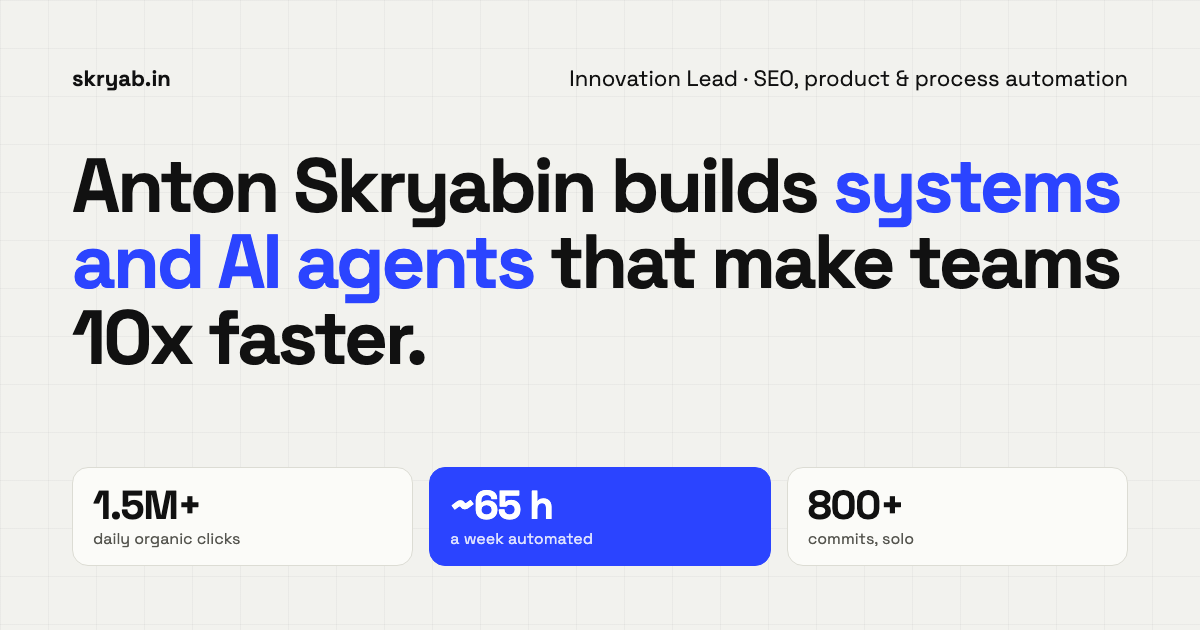
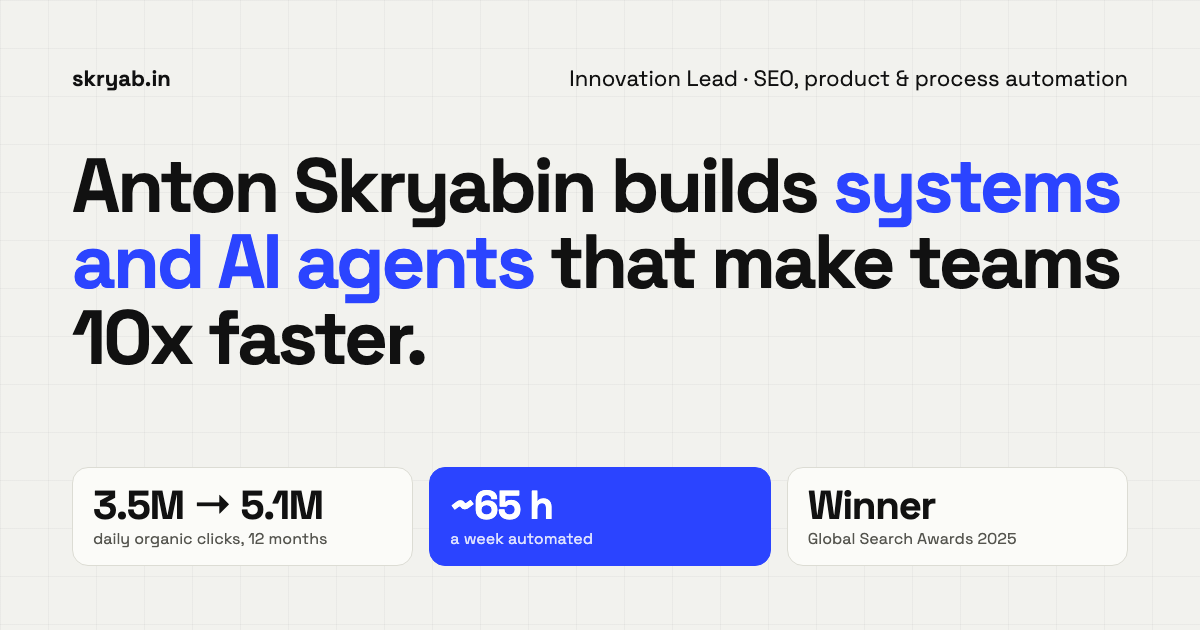
Interview update: growth, GEO, business impact, award

Changed region(s): [[0.0617, 0.754, 0.2775, 0.8746], [0.6783, 0.754, 0.8633, 0.8746]]

diff --git a/index.html b/index.html
@@ -4,7 +4,7 @@
 <meta charset="utf-8">
 <meta name="viewport" content="width=device-width, initial-scale=1">
 <title>Anton Skryabin — Innovation Lead | SEO, Product &amp; Process Automation</title>
-<meta name="description" content="Anton Skryabin builds systems and AI agents that make teams faster. Innovation Lead: SEO at 1.5M+ daily clicks, an in-house SEO platform, LLM workflows.">
+<meta name="description" content="Anton Skryabin grew organic search from 3.5M to 5.1M daily clicks and builds systems and AI agents for SEO teams. Global Search Awards 2025 winner.">
 <link rel="canonical" href="https://skryab.in/">
 <meta name="robots" content="index, follow, max-image-preview:large">
 <meta name="author" content="Anton Skryabin">
@@ -22,7 +22,7 @@
 <meta property="og:site_name" content="skryab.in">
 <meta property="og:url" content="https://skryab.in/">
 <meta property="og:title" content="Anton Skryabin — Innovation Lead">
-<meta property="og:description" content="I did the SEO at 1.5M+ daily clicks. Then I built the systems and AI agents that do it.">
+<meta property="og:description" content="Grew organic search 3.5M → 5.1M daily clicks. Builds systems and AI agents that make teams 10x faster.">
 <meta property="og:image" content="https://skryab.in/og.png">
 <meta property="og:image:width" content="1200">
 <meta property="og:image:height" content="630">
@@ -31,7 +31,7 @@
 <meta property="profile:last_name" content="Skryabin">
 <meta name="twitter:card" content="summary_large_image">
 <meta name="twitter:title" content="Anton Skryabin — Innovation Lead">
-<meta name="twitter:description" content="I did the SEO at 1.5M+ daily clicks. Then I built the systems and AI agents that do it.">
+<meta name="twitter:description" content="Grew organic search 3.5M → 5.1M daily clicks. Builds systems and AI agents that make teams 10x faster.">
 <meta name="twitter:image" content="https://skryab.in/og.png">
 
 <script type="application/ld+json">
@@ -56,10 +56,11 @@
       "url": "https://skryab.in/",
       "image": "https://skryab.in/og.png",
       "jobTitle": "SEO Innovation Lead",
-      "description": "Innovation Lead working across SEO, product and process automation: an in-house SEO platform, AI agents and LLM workflows for growth teams.",
+      "description": "Innovation Lead working across SEO, product and process automation. Grew a flagship's organic search from 3.5M to 5.1M daily clicks; builds an in-house SEO platform, AI agents and LLM workflows.",
       "worksFor": { "@type": "Organization", "name": "Mayflower" },
       "address": { "@type": "PostalAddress", "addressLocality": "Limassol", "addressCountry": "CY" },
       "knowsLanguage": ["en", "ru"],
+      "award": "Global Search Awards 2025 — Best Use of AI for Data (winner)",
       "alumniOf": [
         { "@type": "CollegeOrUniversity", "name": "ITMO University" },
         { "@type": "CollegeOrUniversity", "name": "North-Eastern Federal University" }
@@ -94,6 +95,7 @@
     --blue:#7d8bff; --hl:#8e9bff;
     --band:#1f33d6; --band-muted:#d3d8ff;
   }
+  :root:not([data-theme="light"]) .award b{color:#0d0e12}
 }
 :root[data-theme="dark"]{
   --bg:#0d0e12; --card:#15161c; --line:#26272f; --grid:#ffffff08;
@@ -217,6 +219,29 @@ footer .wrap{display:flex;justify-content:space-between;gap:16px;flex-wrap:wrap;
   .metric b{font-size:44px}
 }
 
+
+/* award, growth, levers */
+.award{display:inline-flex;gap:8px;align-items:center;margin:20px 0 0;font-size:15px;color:var(--muted)}
+.award b{background:var(--blue);color:#fff;border-radius:999px;padding:2px 10px;font-weight:500}
+:root[data-theme="dark"] .award b{color:#0d0e12}
+.growth{display:grid;grid-template-columns:1.2fr 1fr;gap:20px;margin-bottom:20px}
+.growth>div{border:1px solid var(--line);background:var(--card);border-radius:20px;padding:30px}
+.growth .label{color:var(--faint);margin:0}
+.growth-num{display:flex;align-items:baseline;gap:18px;margin:14px 0 8px;font-variant-numeric:tabular-nums;flex-wrap:wrap}
+.growth-num span{font-size:clamp(40px,5vw,64px);letter-spacing:-.04em;color:var(--faint);font-weight:500}
+.growth-num i{font-style:normal;font-size:40px;color:var(--blue)}
+.growth-num b{font-size:clamp(56px,8vw,104px);letter-spacing:-.05em;line-height:1}
+.growth-sub{margin:0;color:var(--muted)}
+.growth-biz ul{list-style:none;margin:14px 0 0;padding:0;display:grid;gap:14px}
+.growth-biz li{display:grid;grid-template-columns:132px 1fr;gap:12px;align-items:baseline}
+.growth-biz b{white-space:nowrap;font-size:30px;letter-spacing:-.03em;color:var(--blue)}
+.growth-biz span{color:var(--muted);font-size:15px;line-height:1.45}
+.levers{list-style:none;margin:0;padding:0;display:grid;grid-template-columns:repeat(3,1fr);gap:20px}
+.levers li{border:1px solid var(--line);background:var(--card);border-radius:16px;padding:22px}
+.levers h3{font-size:18px;margin:0 0 6px;letter-spacing:-.01em}
+.levers p{margin:0;color:var(--muted);font-size:15px;line-height:1.5}
+@media (max-width:900px){.growth,.levers{grid-template-columns:1fr}}
+
 /* ---------- print: a clean CV ---------- */
 @media print{
   @page{margin:12mm 14mm}
@@ -238,7 +263,9 @@ footer .wrap{display:flex;justify-content:space-between;gap:16px;flex-wrap:wrap;
   .metric b{font-size:16pt}
   .case h3{font-size:11pt;margin:4pt 0}
   .case dl{grid-template-columns:62pt 1fr;font-size:9pt;gap:2pt 8pt}
-  .tags,.mini{display:none}
+  .tags,.mini,.award{display:none}
+  .growth{grid-template-columns:1fr 1fr;gap:8pt}.growth>div{padding:8pt}.growth-num b{font-size:20pt}.growth-num span{font-size:14pt}
+  .levers{grid-template-columns:1fr 1fr;gap:6pt}.levers li{padding:6pt;break-inside:avoid}.levers p{font-size:9pt}
   .xp{grid-template-columns:150pt 1fr;gap:4pt 16pt}
   .xp .body,.xp .side{padding:6pt 0}
   .skills,.edu{gap:8pt}
@@ -273,12 +300,13 @@ footer .wrap{display:flex;justify-content:space-between;gap:16px;flex-wrap:wrap;
       <p class="pill"><i aria-hidden="true"></i>Innovation Lead — SEO, product &amp; process automation · Limassol</p>
       <h1 id="hero-h">Anton Skryabin builds <span>systems and AI agents</span> that make teams 10x faster.</h1>
       <p class="print-only" style="margin:4pt 0 0">anton@skryab.in · t.me/lastquasar · linkedin.com/in/anton-skryabin-048b9a280 · Limassol, Cyprus</p>
-      <p class="lede">Six years of hands-on SEO, up to 1.5M+ organic clicks a day. Now I turn that know-how into an in-house platform, AI agents and process changes that do the repeat work for the team.</p>
+      <p class="lede">I grew a flagship product’s organic search from 3.5M to 5.1M clicks a day in one year. Now I turn that SEO know-how into a platform, AI agents and process changes that do the repeat work for the team.</p>
+      <p class="award"><b>Winner</b> · Global Search Awards 2025 — Best Use of AI for Data</p>
       <ul class="stats" aria-label="Key numbers">
-        <li><small>SEO</small><b>1.5M+</b><span>daily organic clicks across the portfolio</span></li>
+        <li><small>SEO growth</small><b>+46%</b><span>3.5M → 5.1M daily organic clicks on the flagship, last 12 months</span></li>
+        <li><small>GEO</small><b>12 → 27%</b><span>visibility in AI answers for target queries, in six months</span></li>
         <li><small>Automation</small><b>~65 h</b><span>of manual work a week automated (estimate)</span></li>
         <li><small>Platform</small><b>800+</b><span>commits in 4 months — built solo</span></li>
-        <li><small>Scale</small><b>34+</b><span>domains in 30+ languages</span></li>
       </ul>
     </div>
   </section>
@@ -293,13 +321,24 @@ footer .wrap{display:flex;justify-content:space-between;gap:16px;flex-wrap:wrap;
       <div class="cases">
         <article class="case wide">
           <div class="metric"><b>~65 h</b><span>of manual work automated every week — estimate across 35 automations</span></div>
-          <h3>SEO OS — the team’s in-house SEO platform</h3>
+          <h3>SEO OS — the in-house SEO platform</h3>
           <dl>
-            <dt>Problem</dt><dd>SEO data lived in 25+ tools. Audits, reports and checks were done by hand.</dd>
+            <dt>Problem</dt><dd>SEO data lived in 25+ tools. Audits, reports and checks were done by hand, and some problems were simply too big to see by eye.</dd>
             <dt>What I did</dt><dd>Designed and built a Django platform alone: 67 active modules, 50 scheduled jobs, 25+ integrations (Search Console, BigQuery, GA4, CrUX, Bing, Ahrefs, Serpstat, Jira, Slack, LLMs), ~1,800 automated tests. 800+ commits in four months.</dd>
-            <dt>Result</dt><dd>A daily technical audit of 11 page types on every locale host (~1,100 headless renders a day). Change tracking of 82,860 pages per run with alerts. A 156 GB local mirror of Search Console data, so any traffic question is answered without API limits.</dd>
+            <dt>Result</dt><dd>Used daily by the SEO team and the Chief Growth Officer. A technical audit of 11 page types on every locale host runs every day (~1,100 headless renders) and caught issues a person would not. Example: a US edge migration that served empty pages to ~12% of Googlebot fetches and broke every sitemap on the main market. It was found by the platform, not by a person, and fixed: empty pages went from 12.4% to 0.5%. A 156 GB local mirror of Search Console answers any traffic question without API limits.</dd>
           </dl>
           <ul class="tags"><li>Python</li><li>Django</li><li>htmx</li><li>DuckDB</li><li>BigQuery</li><li>Playwright</li><li>LLM APIs</li></ul>
+        </article>
+
+        <article class="case">
+          <div class="metric"><b>12 → 27%</b><span>visibility in AI answers for target queries, in six months</span></div>
+          <h3>GEO decision system</h3>
+          <dl>
+            <dt>Problem</dt><dd>AI answer engines became a new search surface, but there was no clear way to decide which content to change.</dd>
+            <dt>What I did</dt><dd>Built a decision system that tracks visibility on target queries and turns it into concrete content recommendations, then ran it with a GEO specialist.</dd>
+            <dt>Result</dt><dd>Visibility on target queries more than doubled in six months.</dd>
+          </dl>
+          <ul class="tags"><li>GEO</li><li>LLMs</li><li>Content</li></ul>
         </article>
 
         <article class="case">
@@ -310,7 +349,7 @@ footer .wrap{display:flex;justify-content:space-between;gap:16px;flex-wrap:wrap;
             <dt>What I did</dt><dd>Built an agent with a structured knowledge base of the team’s domains, events and owners. It reads the data, scores opportunities and drafts tasks.</dd>
             <dt>Result</dt><dd>100 scored findings in its first three weeks, a weekly report, a Slack bot and a voice chat.</dd>
           </dl>
-          <ul class="tags"><li>Claude Code</li><li>Agents</li><li>GSC</li><li>GA4</li><li>Ahrefs</li></ul>
+          <ul class="tags"><li>Claude Code</li><li>Agents</li><li>GSC</li><li>GA4</li></ul>
         </article>
 
         <article class="case">
@@ -318,21 +357,10 @@ footer .wrap{display:flex;justify-content:space-between;gap:16px;flex-wrap:wrap;
           <h3>RAG knowledge agent + MCP servers</h3>
           <dl>
             <dt>Problem</dt><dd>“How do we do X here?” had its answer somewhere in Jira, Slack, Confluence or Drive — but nobody could find it fast.</dd>
-            <dt>What I did</dt><dd>Indexed the documents with embeddings and exposed them, plus plain-English questions over Search Console data, as two MCP servers.</dd>
-            <dt>Result</dt><dd>Teammates’ AI assistants answer with sources, and agents query search data without SQL.</dd>
+            <dt>What I did</dt><dd>Indexed the documents with embeddings and exposed them, plus plain-English questions over Search Console data, as two MCP servers. Moved LLM workloads to self-hosted open models.</dd>
+            <dt>Result</dt><dd>Teammates’ AI assistants answer with sources, agents query search data without SQL, and data stays in-house.</dd>
           </dl>
-          <ul class="tags"><li>RAG</li><li>MCP</li><li>Embeddings</li></ul>
-        </article>
-
-        <article class="case">
-          <div class="metric"><b>24</b><span>locales covered by the AI meta-tag generator</span></div>
-          <h3>LLMs in production, at low cost</h3>
-          <dl>
-            <dt>Problem</dt><dd>Writing H1, title and description for thousands of pages in every locale did not scale, and paid APIs were expensive.</dd>
-            <dt>What I did</dt><dd>Built an AI meta generator and one LLM classifier reused in 5 workflows. Tested a vendor alternative on 413 cases and rejected it. Moved workloads to self-hosted open models.</dd>
-            <dt>Result</dt><dd>Meta tags for every locale on demand. Lower cost, and data stays in-house.</dd>
-          </dl>
-          <ul class="tags"><li>Ollama</li><li>Gemma</li><li>OpenAI</li><li>Evaluation</li></ul>
+          <ul class="tags"><li>RAG</li><li>MCP</li><li>Ollama</li></ul>
         </article>
 
         <article class="case">
@@ -341,7 +369,7 @@ footer .wrap{display:flex;justify-content:space-between;gap:16px;flex-wrap:wrap;
           <dl>
             <dt>Problem</dt><dd>Product changes reached production without an SEO review, and SEO ideas had no clear way into the roadmap.</dd>
             <dt>What I did</dt><dd>Wrote SEO involvement guidelines for product work and added an “SEO related” field in Jira that adds the SEO team automatically. Started SEO review in grooming and an innovation intake with RICE scoring.</dd>
-            <dt>Result</dt><dd>SEO is in the loop by default, and automation ideas are ranked by impact, not by who asks loudest.</dd>
+            <dt>Result</dt><dd>SEO is in the loop by default, and automation ideas are ranked by impact.</dd>
           </dl>
           <ul class="tags"><li>Jira</li><li>Confluence</li><li>RICE</li></ul>
         </article>
@@ -352,68 +380,36 @@ footer .wrap{display:flex;justify-content:space-between;gap:16px;flex-wrap:wrap;
   <section id="seo" aria-labelledby="seo-h">
     <div class="wrap sec">
       <div class="sec-head">
-        <div><p class="label">02 — SEO</p><h2 id="seo-h">SEO at scale.</h2></div>
-        <p>Technical, international and generative-search SEO for a portfolio of high-traffic consumer products in 30+ languages — the foundation the tools are built on.</p>
+        <div><p class="label">02 — SEO</p><h2 id="seo-h">Steady growth from many levers.</h2></div>
+        <p>No single trick: growth on a site this size comes from dozens of small, correct decisions in technical, international and content SEO — made every week.</p>
       </div>
 
-      <div class="cases">
-        <article class="case wide">
-          <div class="metric"><b>84%</b><span>of ~8M verified Googlebot hits went to API endpoints, not pages</span></div>
-          <h3>Googlebot crawl waste, found in server logs</h3>
-          <dl>
-            <dt>Problem</dt><dd>Nobody knew where Googlebot actually spent its crawl budget.</dd>
-            <dt>What I did</dt><dd>Analysed ~8M Googlebot requests from server logs, verified real bots by IP and grouped URLs by shape. Found that most of the crawl went to API endpoints and that ~30K hits came from fake Googlebots.</dd>
-            <dt>Result</dt><dd>An “always server-side render for Googlebot” fix, and a permanent crawl monitor (~1M verified fetches a day) inside SEO OS.</dd>
-          </dl>
-          <ul class="tags"><li>Log analysis</li><li>Crawl budget</li><li>Rendering</li><li>Elasticsearch</li></ul>
-        </article>
-
-        <article class="case">
-          <div class="metric"><b>2×</b><span>clicks for a locale after moving it to its own subdomain</span></div>
-          <h3>International: locales on subdomains</h3>
-          <dl>
-            <dt>What I did</dt><dd>Wrote the canonical and hreflang requirements for moving two locales to new subdomains, then tracked the result.</dd>
-            <dt>Result</dt><dd>One locale doubled its organic clicks. New Bulgarian and Hebrew locales went live in 2026.</dd>
-          </dl>
-          <ul class="tags"><li>hreflang</li><li>Canonicals</li><li>International SEO</li></ul>
-        </article>
-
-        <article class="case">
-          <div class="metric"><b>+700</b><span>clicks a day from one indexation fix</span></div>
-          <h3>Search pages: indexation and canonicals</h3>
-          <dl>
-            <dt>What I did</dt><dd>Got ~300 more search pages indexed and wrote a new title template for search pages. Later wrote the URL-normalisation and canonical rules for search.</dd>
-            <dt>Result</dt><dd>About +700 organic clicks a day from the newly indexed pages.</dd>
-          </dl>
-          <ul class="tags"><li>Indexation</li><li>Templates</li></ul>
-        </article>
-
-        <article class="case">
-          <div class="metric"><b>2 days</b><span>until traffic moved to the new domain</span></div>
-          <h3>Domain migration without a drop</h3>
-          <dl>
-            <dt>What I did</dt><dd>Specified and ran the move of a satellite domain: one-hop page-level 301s, a nameserver switch to Cloudflare and a Change of Address in Search Console.</dd>
-            <dt>Result</dt><dd>Search traffic showed up on the new domain two days after go-live.</dd>
-          </dl>
-          <ul class="tags"><li>Migration</li><li>301</li><li>DNS</li></ul>
-        </article>
-
-        <article class="case">
-          <div class="metric"><b>1–3K</b><span>look-alike domains checked every day</span></div>
-          <h3>Brand protection and DMCA</h3>
-          <dl>
-            <dt>What I did</dt><dd>Owned a page-drop checker bot, triaged DMCA and “shadow DMCA” drops and moved pages back through the de-DMCA flow. Found brand-abuse domains and got them transferred to the company.</dd>
-            <dt>Result</dt><dd>Page drops are handled in one clear process, and copycat domains are caught early.</dd>
-          </dl>
-          <ul class="tags"><li>DMCA</li><li>Brand</li><li>Domains</li></ul>
-        </article>
+      <div class="growth">
+        <div class="growth-main">
+          <p class="label">Flagship, daily organic clicks, last 12 months</p>
+          <p class="growth-num"><span>3.5M</span><i aria-hidden="true">→</i><b>5.1M</b></p>
+          <p class="growth-sub">+46% year over year · Top-600 global Semrush rank · 34+ domains in 30+ languages</p>
+        </div>
+        <div class="growth-biz">
+          <p class="label">What it means for the business</p>
+          <ul>
+            <li><b>#1</b><span>channel for sign-ups (was #2 a year ago), first purchases and revenue — organic &amp; direct</span></li>
+            <li><b>+61%</b><span>first purchases from the channel, year over year</span></li>
+            <li><b>+4.8 pts</b><span>share of all sign-ups, year over year</span></li>
+          </ul>
+        </div>
       </div>
 
-      <ul class="mini" aria-label="More SEO numbers">
-        <li><b>30M+</b><span>monthly organic visits on the flagship</span></li>
-        <li><b>Top-600</b><span>global Semrush rank of the flagship</span></li>
-        <li><b>0 → 10K</b><span>daily clicks for satellite projects</span></li>
-        <li><b>CWV</b><span>single owner of Core Web Vitals regressions via CrUX</span></li>
+      <ul class="levers">
+        <li><h3>Crawl &amp; rendering</h3><p>Analysed ~8M Googlebot hits from server logs: 84% went to API endpoints, not pages. Led to server-side rendering for Googlebot and a permanent crawl monitor.</p></li>
+        <li><h3>Indexation</h3><p>Got ~300 more search pages indexed (+700 clicks a day), then wrote the URL-normalisation and canonical rules for search.</p></li>
+        <li><h3>International</h3><p>Canonical and hreflang requirements for moving locales to subdomains — one locale doubled its clicks. New Bulgarian and Hebrew locales in 2026.</p></li>
+        <li><h3>Templates &amp; meta</h3><p>Own title, H1 and meta templates across locales, plus an AI meta generator for 24 locales.</p></li>
+        <li><h3>Core Web Vitals</h3><p>Single owner of CWV regressions: CrUX checks, triage and hand-off to developers.</p></li>
+        <li><h3>Migrations &amp; domains</h3><p>Page-level one-hop 301s, a Cloudflare switch and Change of Address — traffic moved to the new domain in two days. White-label domains and their DNS.</p></li>
+        <li><h3>Brand protection</h3><p>A page-drop checker, DMCA and “shadow DMCA” triage, and 1–3K look-alike domains monitored daily.</p></li>
+        <li><h3>Measured releases</h3><p>Every SEO release is measured at 4 and 12 weeks. Best results: custom search pages +726% clicks, mixed-tag pages +164%, Indian-language categories +111%.</p></li>
+        <li><h3>Product SEO</h3><p>SEO requirements in product tasks and validation before and after every release, with engineering, design, content, analytics and legal.</p></li>
       </ul>
     </div>
   </section>
@@ -422,51 +418,54 @@ footer .wrap{display:flex;justify-content:space-between;gap:16px;flex-wrap:wrap;
     <div class="wrap sec">
       <div class="sec-head">
         <div><p class="label">03 — Experience</p><h2 id="xp-h">Experience.</h2></div>
-        <p>From specialist to team lead to innovation lead — mostly at one company, with growing scope.</p>
+        <p>Six years in SEO: from specialist to team lead to innovation lead, in fintech and high-traffic consumer products.</p>
       </div>
 
       <div class="xp">
         <div class="side"><h3>SEO Innovation Lead</h3><p class="when">Mayflower · Sep 2026 – now</p></div>
         <div class="body"><ul>
           <li>Own the SEO automation roadmap: internal tools, data pipelines and AI systems for SEO and Growth.</li>
-          <li>Lead the SEO Innovations team, including Generative Engine Optimization (visibility in AI answer engines).</li>
+          <li>Two SEO specialists and a GEO specialist report to me.</li>
           <li>Run the innovation intake with RICE scoring and drive adoption of automation in day-to-day work.</li>
         </ul></div>
 
-        <div class="side"><h3>SEO Team Lead</h3><p class="when">Mayflower · Jul 2025 – Sep 2026</p></div>
+        <div class="side"><h3>SEO Team Lead / SEO Product Manager</h3><p class="when">Mayflower · Jul 2025 – Sep 2026</p></div>
         <div class="body"><ul>
-          <li>Owned SEO strategy for several high-traffic international products across Tier 0–3 markets; monthly SEO review with CEO, CPO and CGO.</li>
-          <li>Managed and mentored the on-page SEO team: prioritization, QA, performance tracking.</li>
-          <li>Acted as SEO Product Owner with engineering, design, content, analytics and legal.</li>
-          <li>Built SEO OS (see Innovation).</li>
+          <li>Owned SEO strategy for several high-traffic international products across Tier 0–3 markets, reporting to C-level.</li>
+          <li>Led Generative Engine Optimization: visibility and citations in AI answer engines.</li>
+          <li>Acted as SEO Product Owner; built SEO OS (see Innovation).</li>
         </ul></div>
 
-        <div class="side"><h3>SEO Specialist → Senior</h3><p class="when">Mayflower · Jul 2023 – Jun 2025</p></div>
+        <div class="side"><h3>On-page SEO Specialist → Senior</h3><p class="when">Mayflower · Jun 2023 – Jul 2025</p></div>
         <div class="body"><ul>
-          <li>Owned title, H1 and meta templates and the SEO requirements in product tasks.</li>
-          <li>Set up white-label domains and their DNS; ran DMCA triage and brand protection.</li>
-          <li>Technical audits, Python automations and Looker Studio reporting.</li>
+          <li>Ran several SEO-driven products at once, from idea to launch and scaling, across Tier 1–3 markets.</li>
+          <li>Owned title, H1 and meta templates; DMCA triage and brand protection; white-label domains.</li>
+          <li>Introduced Python automations and Looker Studio reporting.</li>
         </ul></div>
 
-        <div class="side"><h3>SEO Specialist</h3><p class="when">IQ Option Global · Jan 2021 – Jun 2023</p></div>
-        <div class="body"><p>Technical and on-page SEO for an international fintech product.</p></div>
+        <div class="side"><h3>SEO Specialist</h3><p class="when">IQ Option · Feb 2021 – Jun 2023</p></div>
+        <div class="body"><ul>
+          <li>SEO strategy for international financial products in 30+ countries.</li>
+          <li>Top-1 to top-10 Google rankings in highly competitive financial niches.</li>
+          <li>Multilingual SEO: English, Spanish, Portuguese, French and more.</li>
+        </ul></div>
       </div>
 
       <div class="skills">
         <div><h3>SEO</h3><p>Technical SEO, crawl budget, log analysis, rendering, Core Web Vitals, international SEO, migrations, GEO.</p></div>
         <div><h3>Engineering &amp; AI</h3><p>Python, Django, SQL, BigQuery, DuckDB, LLM APIs, agents, RAG, MCP, self-hosted models.</p></div>
-        <div><h3>Leadership</h3><p>Team lead and mentor, SEO product owner, process design, work with C-level.</p></div>
+        <div><h3>Languages</h3><p>English — C1 (advanced). Russian — native.</p></div>
       </div>
     </div>
   </section>
 
   <section id="education" aria-labelledby="edu-h" style="border-top:1px solid var(--line)">
     <div class="wrap sec" style="padding-top:72px;padding-bottom:72px">
-      <p class="label" id="edu-h" style="color:var(--faint)">Education &amp; certifications</p>
+      <p class="label" id="edu-h" style="color:var(--faint)">Awards &amp; education</p>
       <ul class="edu" style="margin-top:20px">
+        <li><b>Global Search Awards 2025</b><span>Winner — Best Use of AI for Data</span></li>
         <li><b>ITMO University</b><span>MTech, Neurotechnologies and software engineering · 2019–2021</span></li>
         <li><b>North-Eastern Federal University</b><span>BTech, Informatics and computer engineering · 2015–2019</span></li>
-        <li><b>LinkedIn Learning</b><span>Leadership Transitions · Influence Skills for Leaders · Strategic Thinking</span></li>
       </ul>
     </div>
   </section>
@@ -487,7 +486,7 @@ footer .wrap{display:flex;justify-content:space-between;gap:16px;flex-wrap:wrap;
 
 <footer>
   <div class="wrap">
-    <span>© 2026 Anton Skryabin · skryab.in · Languages: English, Russian</span>
+    <span>© 2026 Anton Skryabin · skryab.in</span>
     <button class="btn no-print" type="button" id="print">Save CV as PDF</button>
   </div>
 </footer>
